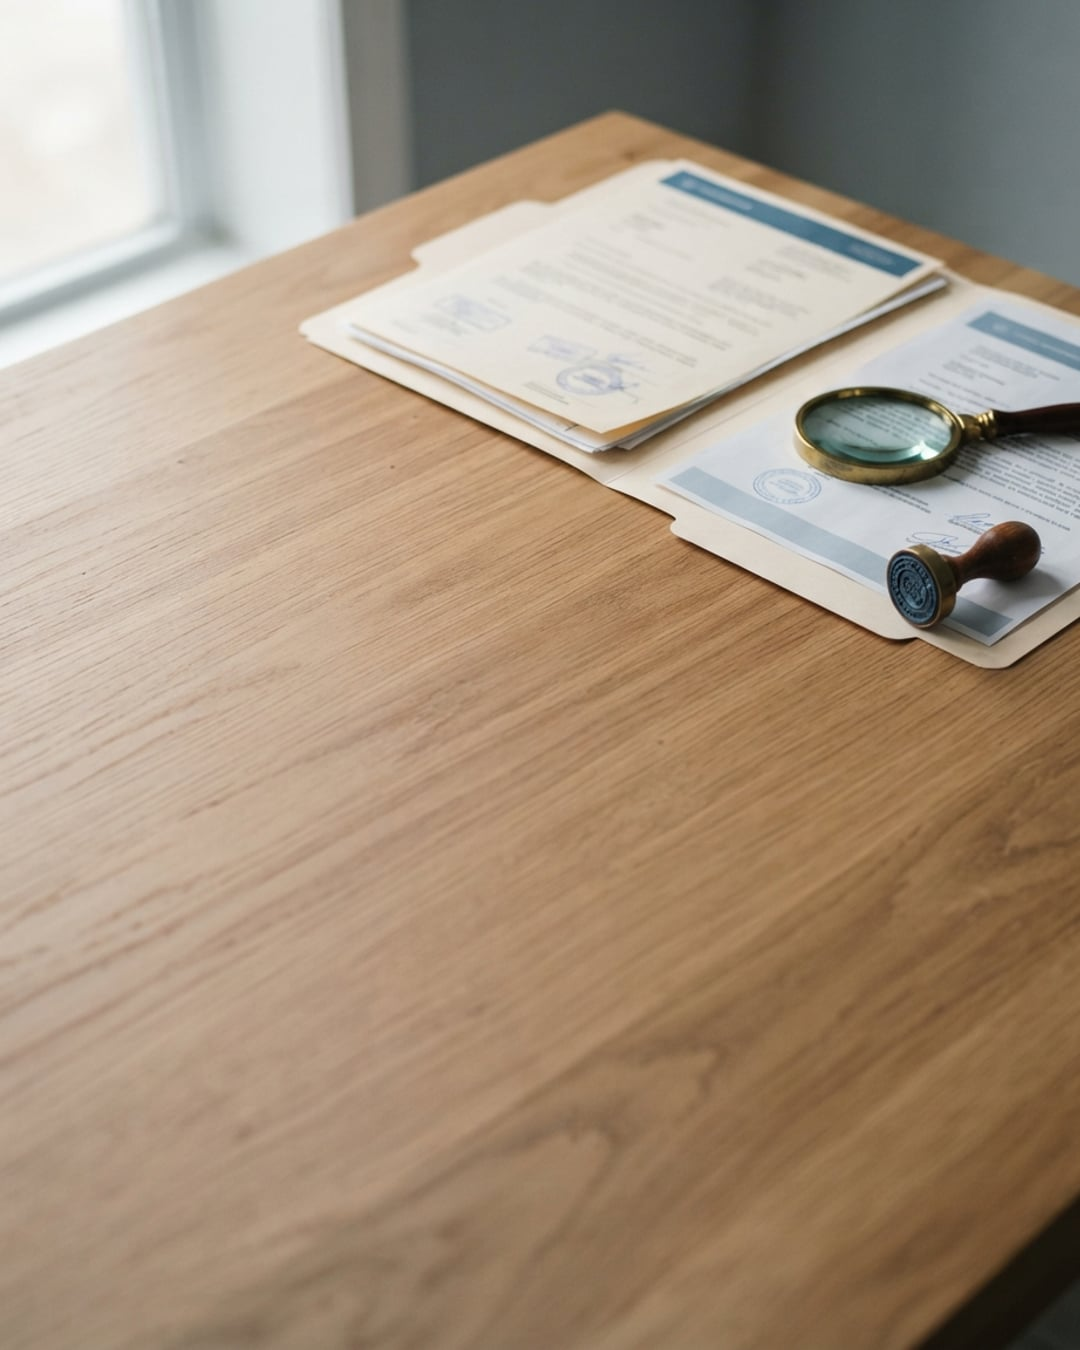
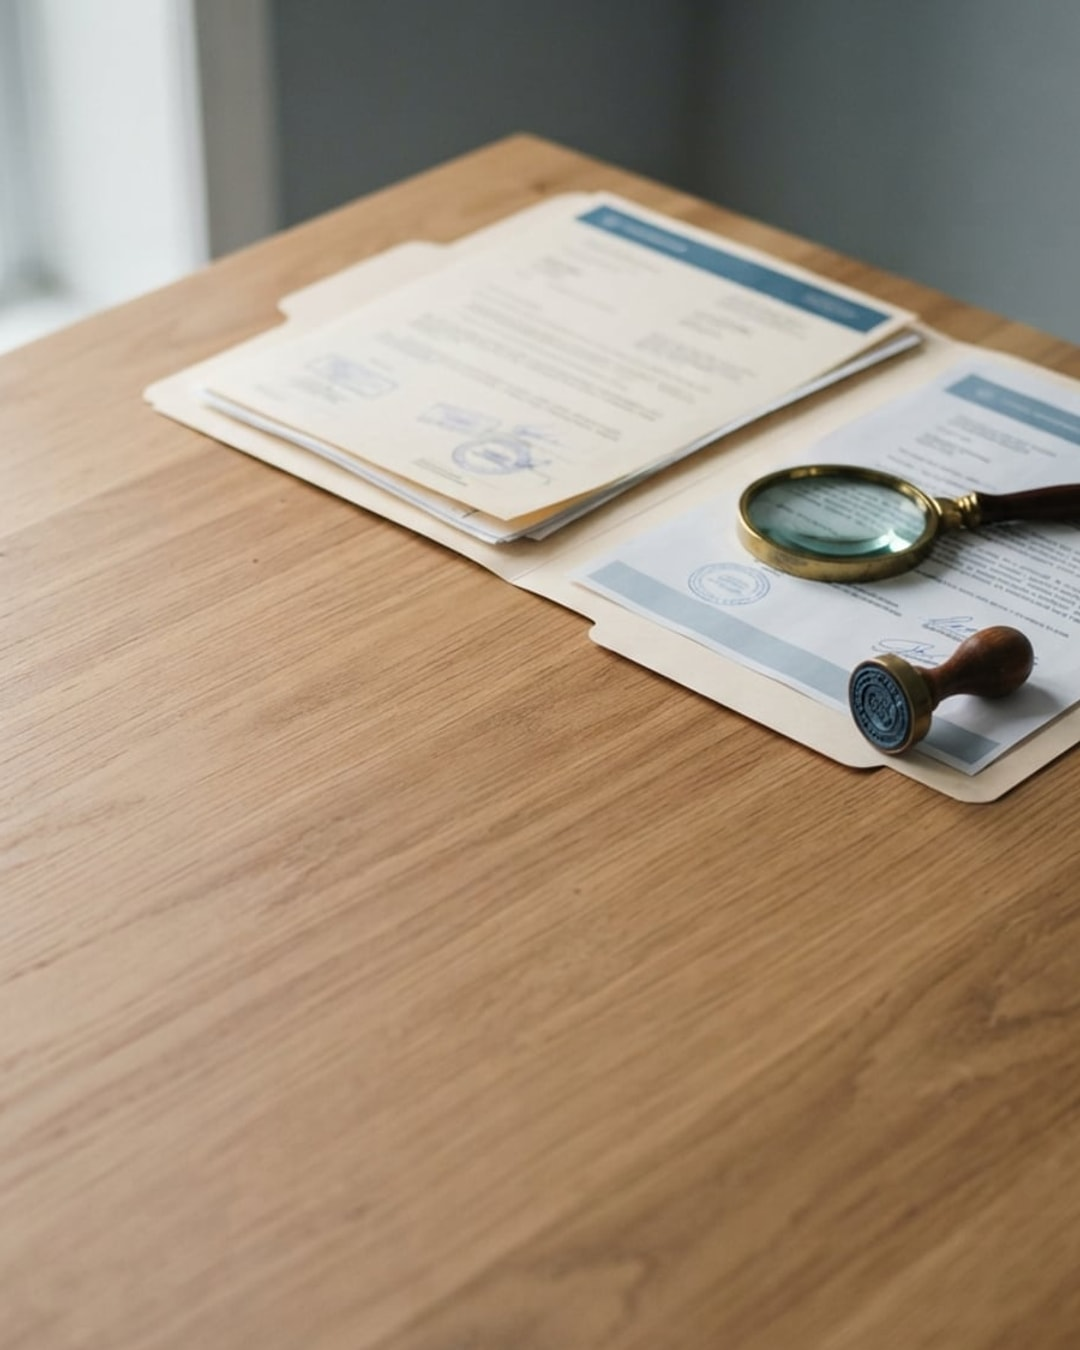
Borrador "Cómo investigar una empresa en Panamá": categoría INVESTIGACIÓN, bajada nueva, rótulo de IA en la cuenta personal y reencuadre de la ilustración sin Gemini
- estados.mjs: INVESTIGACIÓN entra en CATEGORIAS (panel, redactor, validación) con prueba.
- cuentas/luiseskivelgolcher: ilustraciones.rotulo = "Ilustración generada con IA" (Sin Línea sigue sin rótulo).
- public/ilus/...registro-pub-b8ea.jpg: recorte 900x1125 (arriba/derecha) reescalado a 1080x1350; los documentos ganan protagonismo y el titular no los tapa.
- Docs: ROADMAP, GUIA.

diff --git a/ROADMAP.md b/ROADMAP.md
@@ -68,6 +68,15 @@ configurable por cuenta (`idioma`, `es-PA` por defecto).
   Ilustraciones activas con estilo neutro provisional; generación y publicación
   siguen apagadas. Pendiente: revisar ambos en el panel, definir fuentes y la
   conexión de Instagram.
+- **Ajustes al borrador "Cómo investigar una empresa en Panamá" (2026-09-08,
+  noche)**: categoría nueva `INVESTIGACIÓN` en `CATEGORIAS` (estados.mjs;
+  disponible para todas las cuentas y en el redactor), bajada nueva, rótulo
+  "Ilustración generada con IA" restituido solo en la cuenta personal
+  (`ilustraciones.rotulo`), y reencuadre manual de la ilustración existente sin
+  llamar a Gemini (recorte 900x1125 alineado arriba/derecha y reescalado a
+  1080x1350 con sharp: los documentos ganan tamaño y el titular no los tapa).
+  El original queda en el historial de git. LEG sigue como marcador provisional
+  hasta que el operador entregue su logo.
 - **Ajuste del logo LEG (2026-09-08, noche)**: a petición del operador el
   cuadro pasa a negro (`oscuro` vuelve a `#161616`; `logo.png` regenerado con
   `npm run logo`) y el logo se dibuja más pequeño: nuevo campo opcional

diff --git a/GUIA.md b/GUIA.md
@@ -66,9 +66,9 @@ casilla "Usar" queda destildada) para no seguir gastando cuota en algo que no
 funciona; el post sigue publicándose con el respaldo tipográfico. Para
 reactivarla, vuelve a marcar "Usar ilustración generada con IA" o pulsa
 "Regenerar ilustración"; cualquiera de las dos cuenta como un intento nuevo.
-- Las imágenes con ilustración ya no llevan rótulo (decisión del 2026-09-08). Si
-  se quiere volver a mostrarlo, basta poner un texto en `ilustraciones.rotulo` de la
-  cuenta; los posts activos se vuelven a dibujar solos.
+- El rótulo "Ilustración generada con IA" se controla por cuenta con
+  `ilustraciones.rotulo`: Sin Línea no lo lleva (decisión del 2026-09-08) y la
+  cuenta personal sí. Al cambiarlo, los posts activos se vuelven a dibujar solos.
 
 ## Si algo sale mal
 - Un post en **Errores** muestra el mensaje exacto. Los errores de imagen se
